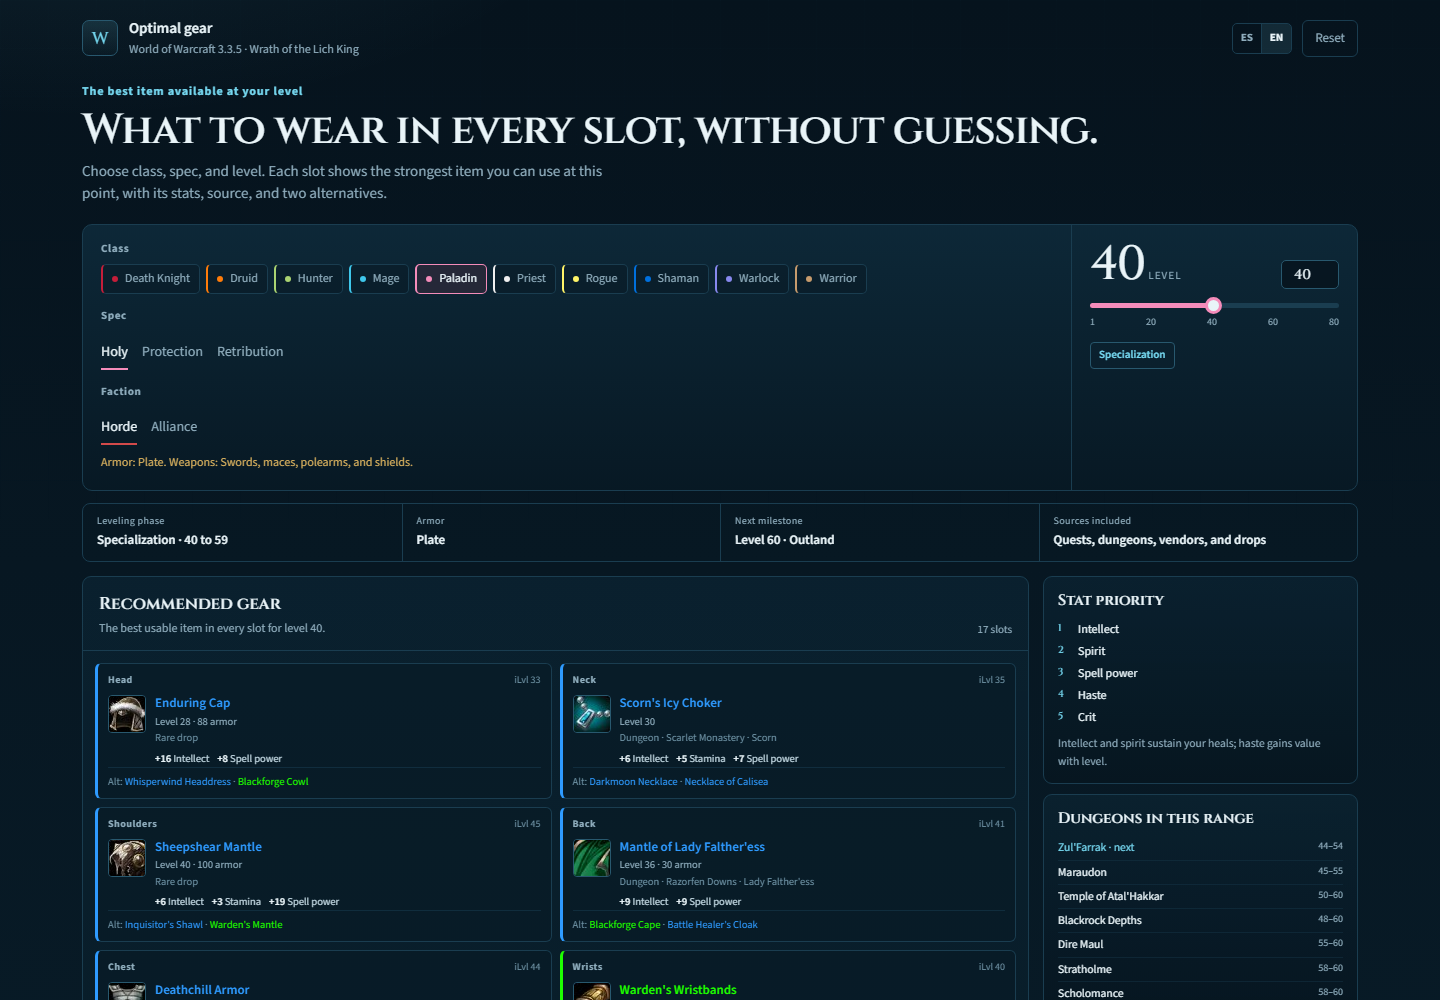
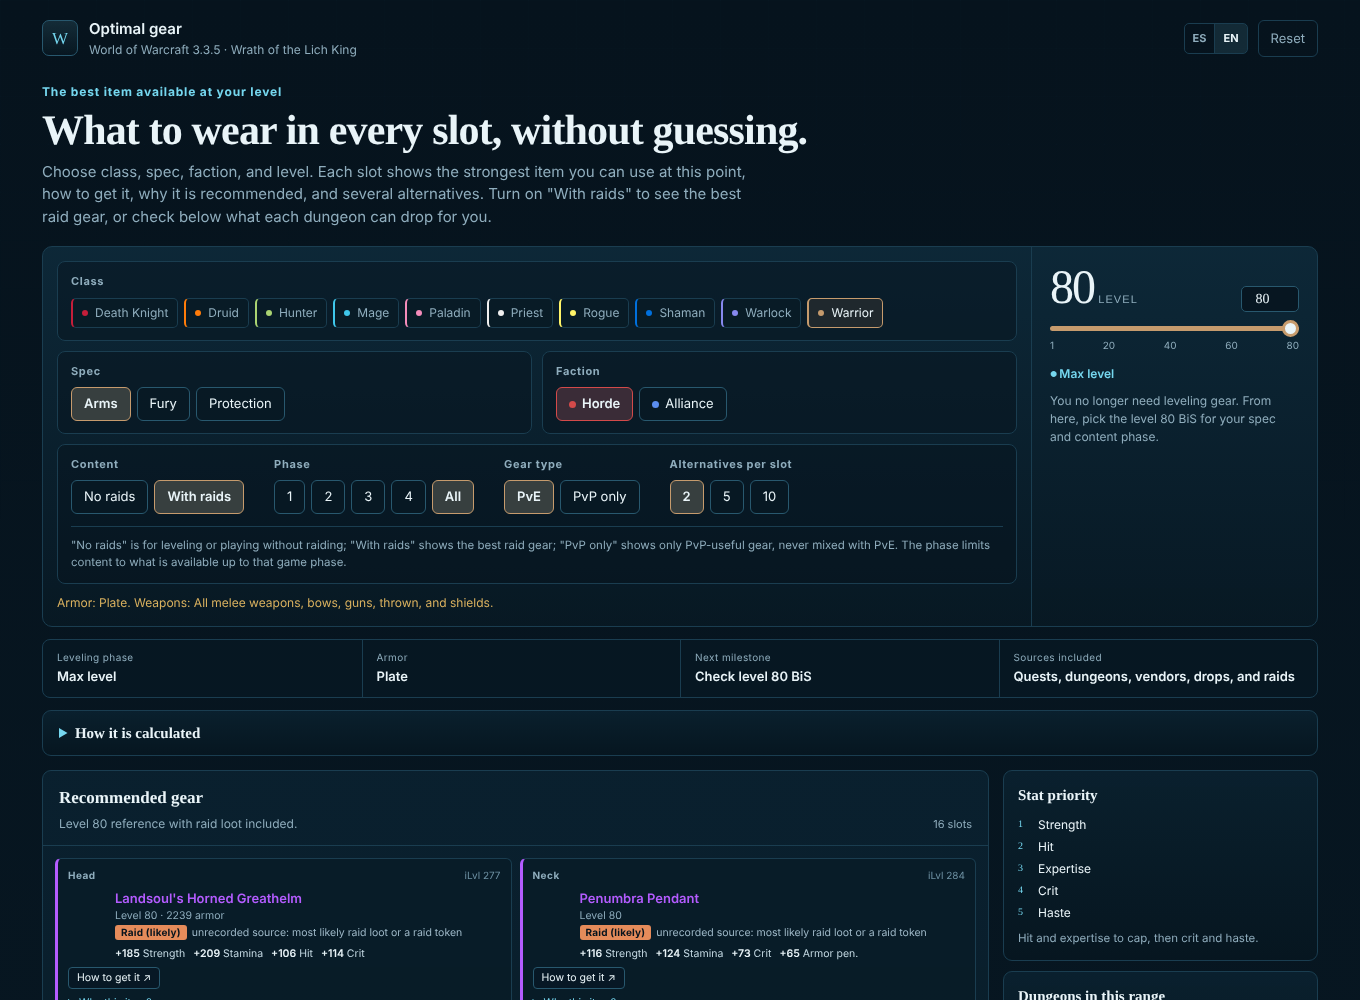
docs: describe content modes and refresh screenshots

diff --git a/README.es.md b/README.es.md
@@ -17,7 +17,11 @@ Incluye las 10 clases de WotLK, 31 especialidades, niveles 1–80, Horda/Alianza
 ## Características
 
 - **Ficha de equipamiento completa**: cabeza, cuello, hombros, espalda, pecho, muñecas, manos, cintura, piernas, pies, anillos, abalorios, mano principal, mano secundaria, a distancia y reliquia.
-- **Mejor objeto por slot** con dos alternativas.
+- **Mejor objeto por slot** con 2, 5 o 10 alternativas, ordenadas por puntuación (no por fuente).
+- **Cómo conseguirlo**: cada objeto muestra su fuente (misión, vendedor, jefe de mazmorra con probabilidad de drop, banda, drop raro) y enlaza a su ficha de EVOWOW.
+- **«¿Por qué este objeto?»** por slot: desglose de la puntuación por estadística, penalización por tipo de armadura, comparación con la siguiente alternativa y aviso cuando una opción de mayor nivel está oculta o es peor.
+- **Modos de contenido**: «Sin bandas» (por defecto) o «Con bandas», fase de raid 1–4 o Todas y un modo aparte «Solo PvP» (el PvE es el predeterminado; el equipo PvP nunca se mezcla en la recomendación PvE).
+- **Botín de mazmorra según tu equipo**: indica lo que lleva puesto tu personaje (o carga el recomendado), elige una mazmorra y mira todo lo que puede soltar para tu clase y especialidad, con el % de cambio frente a tu pieza equipada. La idea es extenderlo después a raids.
 - **Filtro de facción**: las misiones y vendedores se ajustan a Horda o Alianza.
 - **Interfaz bilingüe**: español e inglés.
 - **Detalle de cada objeto**: icono, calidad, nivel de objeto, nivel requerido, estadísticas relevantes y fuente.
@@ -30,10 +34,10 @@ Incluye las 10 clases de WotLK, 31 especialidades, niveles 1–80, Horda/Alianza
 
 1. `scripts/fetch_raw.py` descarga los datos crudos de objetos y zonas.
 2. `scripts/build_item_db.py` normaliza objetos, estadísticas, niveles requeridos, armadura/armas y fuentes.
-3. `scripts/build_recommendations.py` filtra por clase, especialidad, nivel, facción, tipo de armadura y competencia de armas; después puntúa con pesos por rol.
+3. `scripts/build_recommendations.py` genera la base de objetos, las definiciones de especialidad, los pesos de estadísticas y la lista de mazmorras. El ranking se calcula en el navegador, así que los filtros de modo, fase, PvP y facción se aplican al instante.
 4. `scripts/build_page.py` inyecta el JSON generado en `src/template.html` y escribe `tolltip.html`.
 
-El ranking es una heurística práctica para subir de nivel, no un simulador de combate. Prioriza fuentes de subida y usa PvP o fuentes no registradas solo cuando no hay una alternativa mejor. Se excluyen los objetos de banda detectados por la fuente; algunas cadenas de misión de banda pueden aparecer como misión.
+El ranking es una heurística práctica, no un simulador de combate: ordena por una puntuación ponderada de estadísticas (el nivel de objeto solo desempata) y penaliza los tipos de armadura que no son ideales para la clase. Los épicos sin fuente registrada de nivel de objeto 213 o más se tratan como botín de banda («banda probable»). Aún no se modelan topes de golpe/pericia, gemas, bonificaciones de set, procs ni combinaciones completas de armas.
 
 ## Inicio rápido
 
@@ -93,10 +97,10 @@ Este proyecto no está afiliado a Blizzard Entertainment. World of Warcraft y Wr
 ## Limitaciones
 
 - La base está basada en WotLK Classic; algunas fuentes originales de 3.3.5 pueden faltar o aparecer como “Otra fuente”.
-- El botín de banda se excluye intencionadamente, pero algunas recompensas de misiones de banda pueden aparecer como misión.
+- En «Sin bandas» se excluyen el botín de banda y las cadenas de misión de banda; en «Con bandas» aparecen.
 - Los pesos de estadísticas son aproximaciones por rol. Sirven para subir de nivel, no sustituyen a un simulador de BiS.
 - Algunos slots de niveles muy bajos pueden no tener objetos con estadísticas conocidas.
-- La página final incluye los datos incrustados, así que `tolltip.html` pesa alrededor de 3 MB.
+- La página final incluye los datos incrustados, así que `tolltip.html` pesa alrededor de 4,5 MB.
 
 ## Contribuir
 

diff --git a/README.md b/README.md
@@ -17,7 +17,11 @@ It supports all 10 WotLK classes, 31 specializations, levels 1–80, Horde/Allia
 ## Features
 
 - **Full equipment sheet**: head, neck, shoulders, back, chest, wrists, hands, waist, legs, feet, rings, trinkets, main hand, off hand, ranged, and relic.
-- **Best item per slot** with two alternatives.
+- **Best item per slot** with 2, 5, or 10 alternatives, ranked by score (not by source).
+- **How to get it**: every item shows its source (quest, vendor, dungeon boss with drop chance, raid, rare drop) and links to its EVOWOW page.
+- **"Why this item?"** per slot: score breakdown by stat, armor-type penalty, comparison with the next alternative, and a warning when a higher item level option is hidden or weaker.
+- **Content modes**: "No raids" (default) or "With raids", raid phase 1–4 or All, and a separate "PvP only" mode (PvE is the default; PvP gear is never mixed into PvE recommendations).
+- **Dungeon loot from your gear**: enter what your character is wearing (or load the recommended set), pick a dungeon, and see every item it can drop for your class and spec with the % change over your equipped piece. The same flow is meant to extend to raids.
 - **Faction-aware**: quests and vendors are filtered for Horde or Alliance.
 - **Bilingual UI**: Spanish and English.
 - **Item details**: icon, quality color, item level, required level, relevant stats, and source.
@@ -30,10 +34,10 @@ It supports all 10 WotLK classes, 31 specializations, levels 1–80, Horde/Allia
 
 1. `scripts/fetch_raw.py` downloads the raw item and zone data.
 2. `scripts/build_item_db.py` normalizes items, stats, required levels, armor/weapon metadata, and sources.
-3. `scripts/build_recommendations.py` filters items by class, spec, level, faction, armor type, and weapon proficiency, then ranks them with role-based stat weights.
+3. `scripts/build_recommendations.py` emits the item database, spec definitions, stat weights, and dungeon list. The ranking itself runs in the browser, so mode, phase, PvP, and faction filters apply instantly.
 4. `scripts/build_page.py` injects the generated JSON into `src/template.html` and writes `tolltip.html`.
 
-The ranking is a practical leveling heuristic, not a combat simulator. It prioritizes leveling sources and uses PvP or unregistered sources only when no better leveling option exists. Known raid drops are excluded; some raid quest chains may still appear as quests.
+The ranking is a practical heuristic, not a combat simulator: it sorts by a weighted stat score (item level only breaks ties) and penalizes armor types that are not ideal for the class. Epic items with no recorded source at item level 213 or higher are treated as raid loot ("likely raid"). Hit/expertise caps, gems, set bonuses, proc effects, and full weapon loadouts are not modeled yet.
 
 ## Quick start
 
@@ -95,7 +99,7 @@ This project is not affiliated with Blizzard Entertainment. World of Warcraft an
 - Raid loot is intentionally excluded, but some raid quest rewards can still be labeled as quests.
 - Stat weights are role-based approximations. They are designed to be useful while leveling, not to replace a full BiS simulator.
 - Some very low-level slots may legitimately have no item with known stats.
-- The generated page embeds the item data, so `tolltip.html` is intentionally large (around 3 MB).
+- The generated page embeds the item data, so `tolltip.html` is intentionally large (around 4.5 MB).
 
 ## Contributing
 
